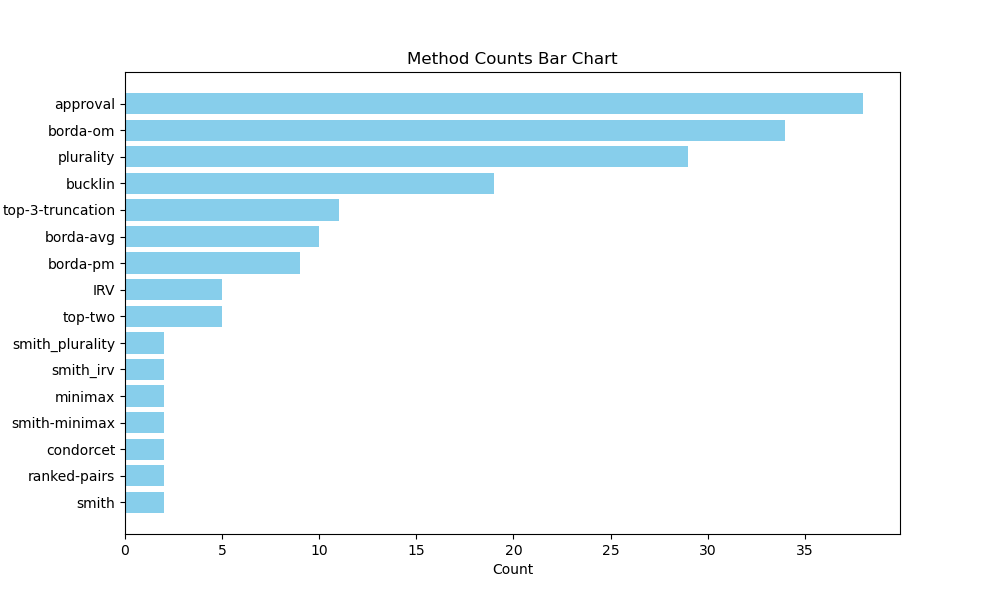
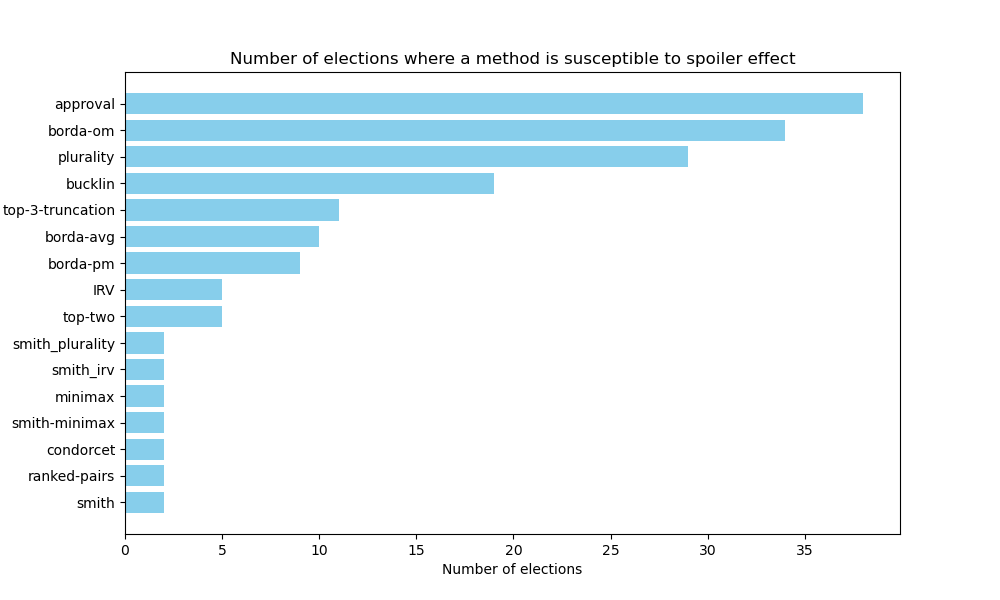
update spoiler graph

Changed region(s): [[0.217, 0.09, 0.806, 0.12], [0.434, 0.93, 0.589, 0.96]]

diff --git a/analysis/spoiler/generate_graph.py b/analysis/spoiler/generate_graph.py
@@ -12,9 +12,9 @@ def run(country):
 
     plt.figure(figsize=(10, 6))
     plt.barh(methods, counts, color="skyblue")
-    plt.xlabel("Count")
+    plt.xlabel("Number of elections")
     plt.ylabel("Method")
-    plt.title("Method Counts Bar Chart")
+    plt.title("Number of elections where a method is susceptible to spoiler effect")
     plt.gca().invert_yaxis()  
     plt.savefig(f'{country}.png')
 
